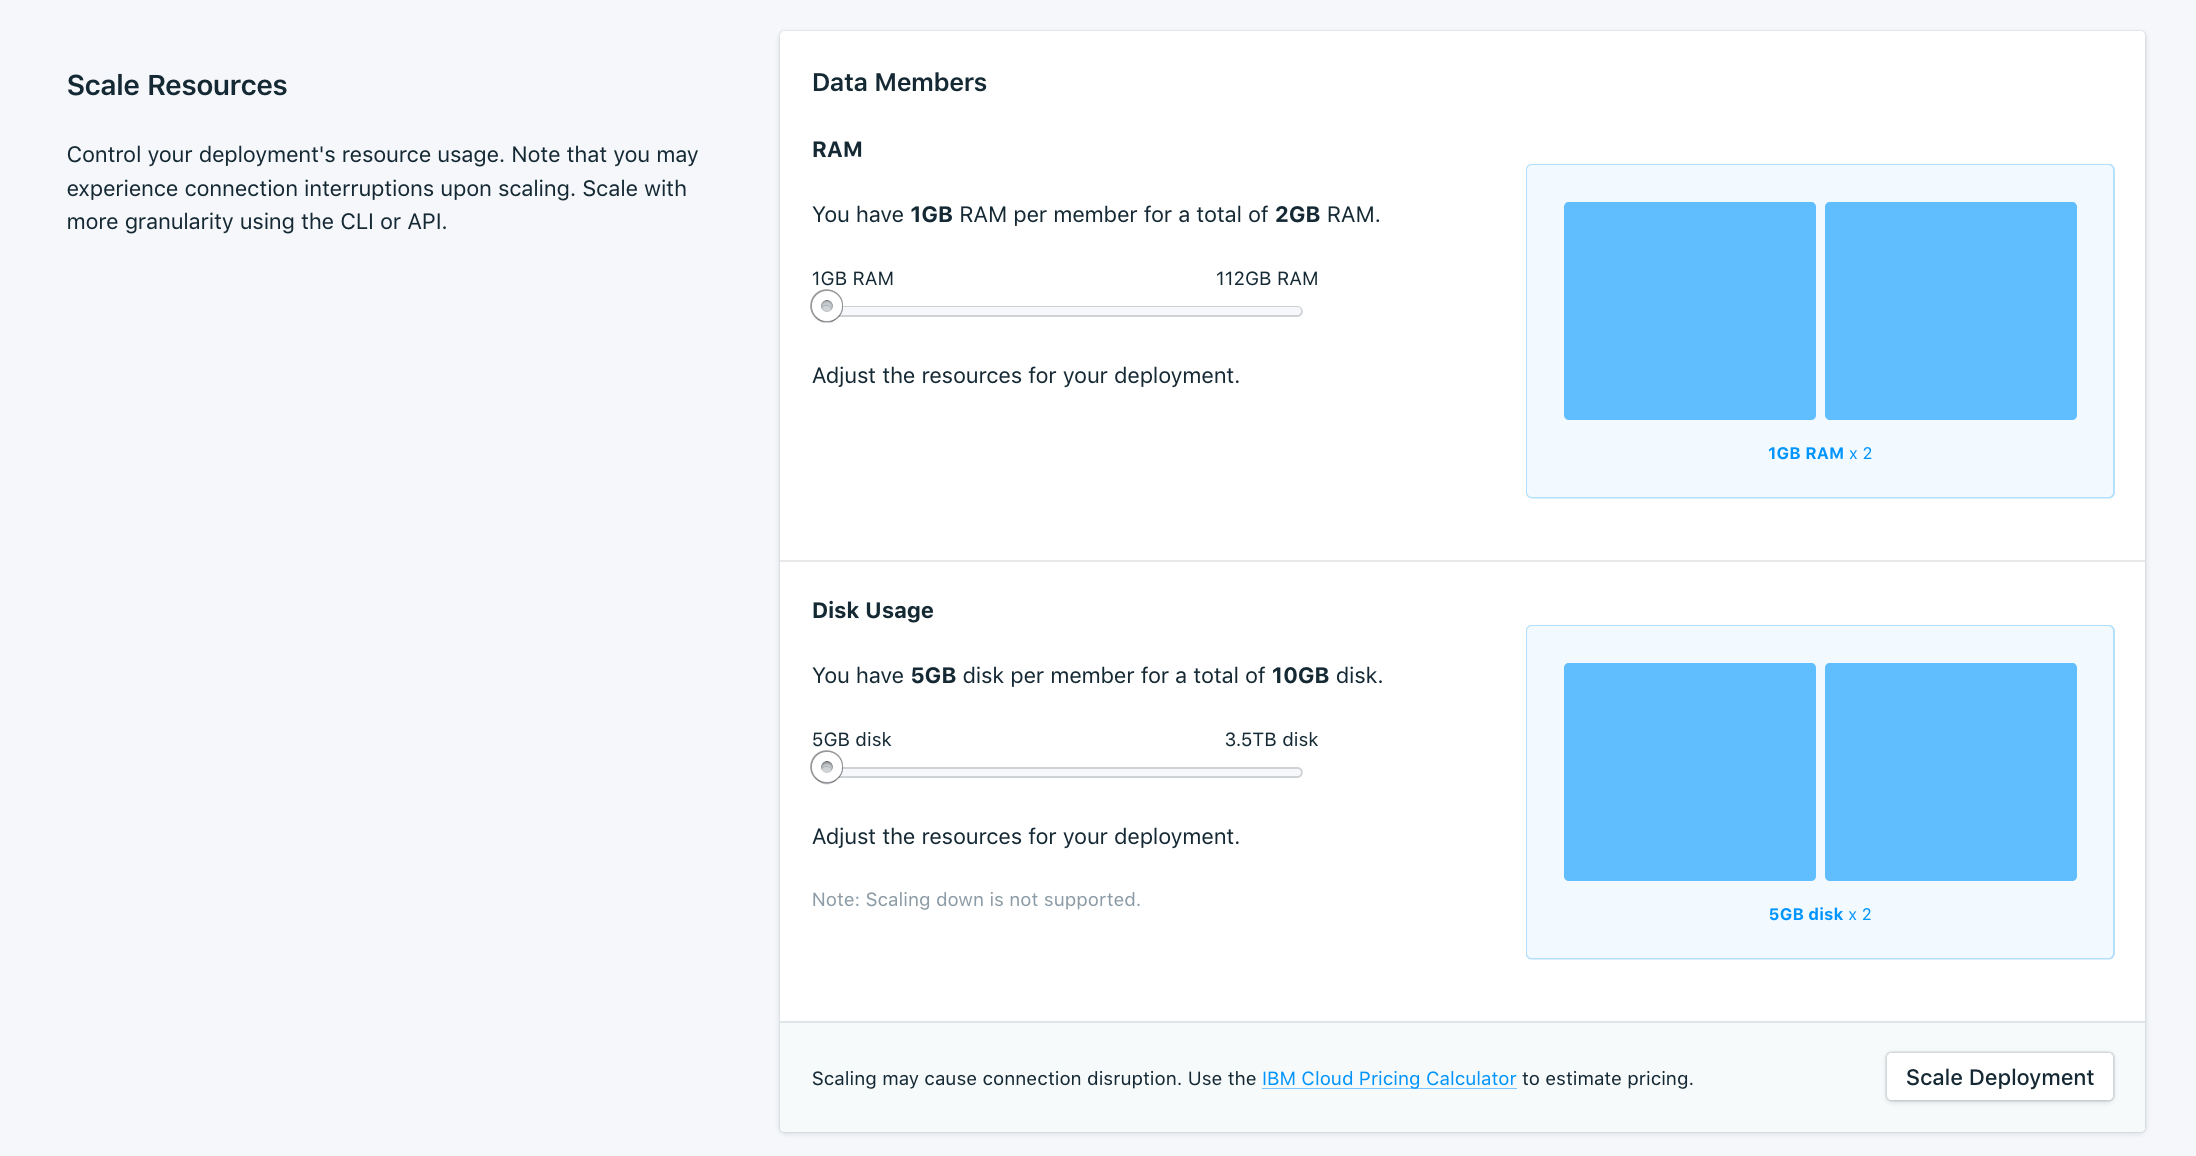
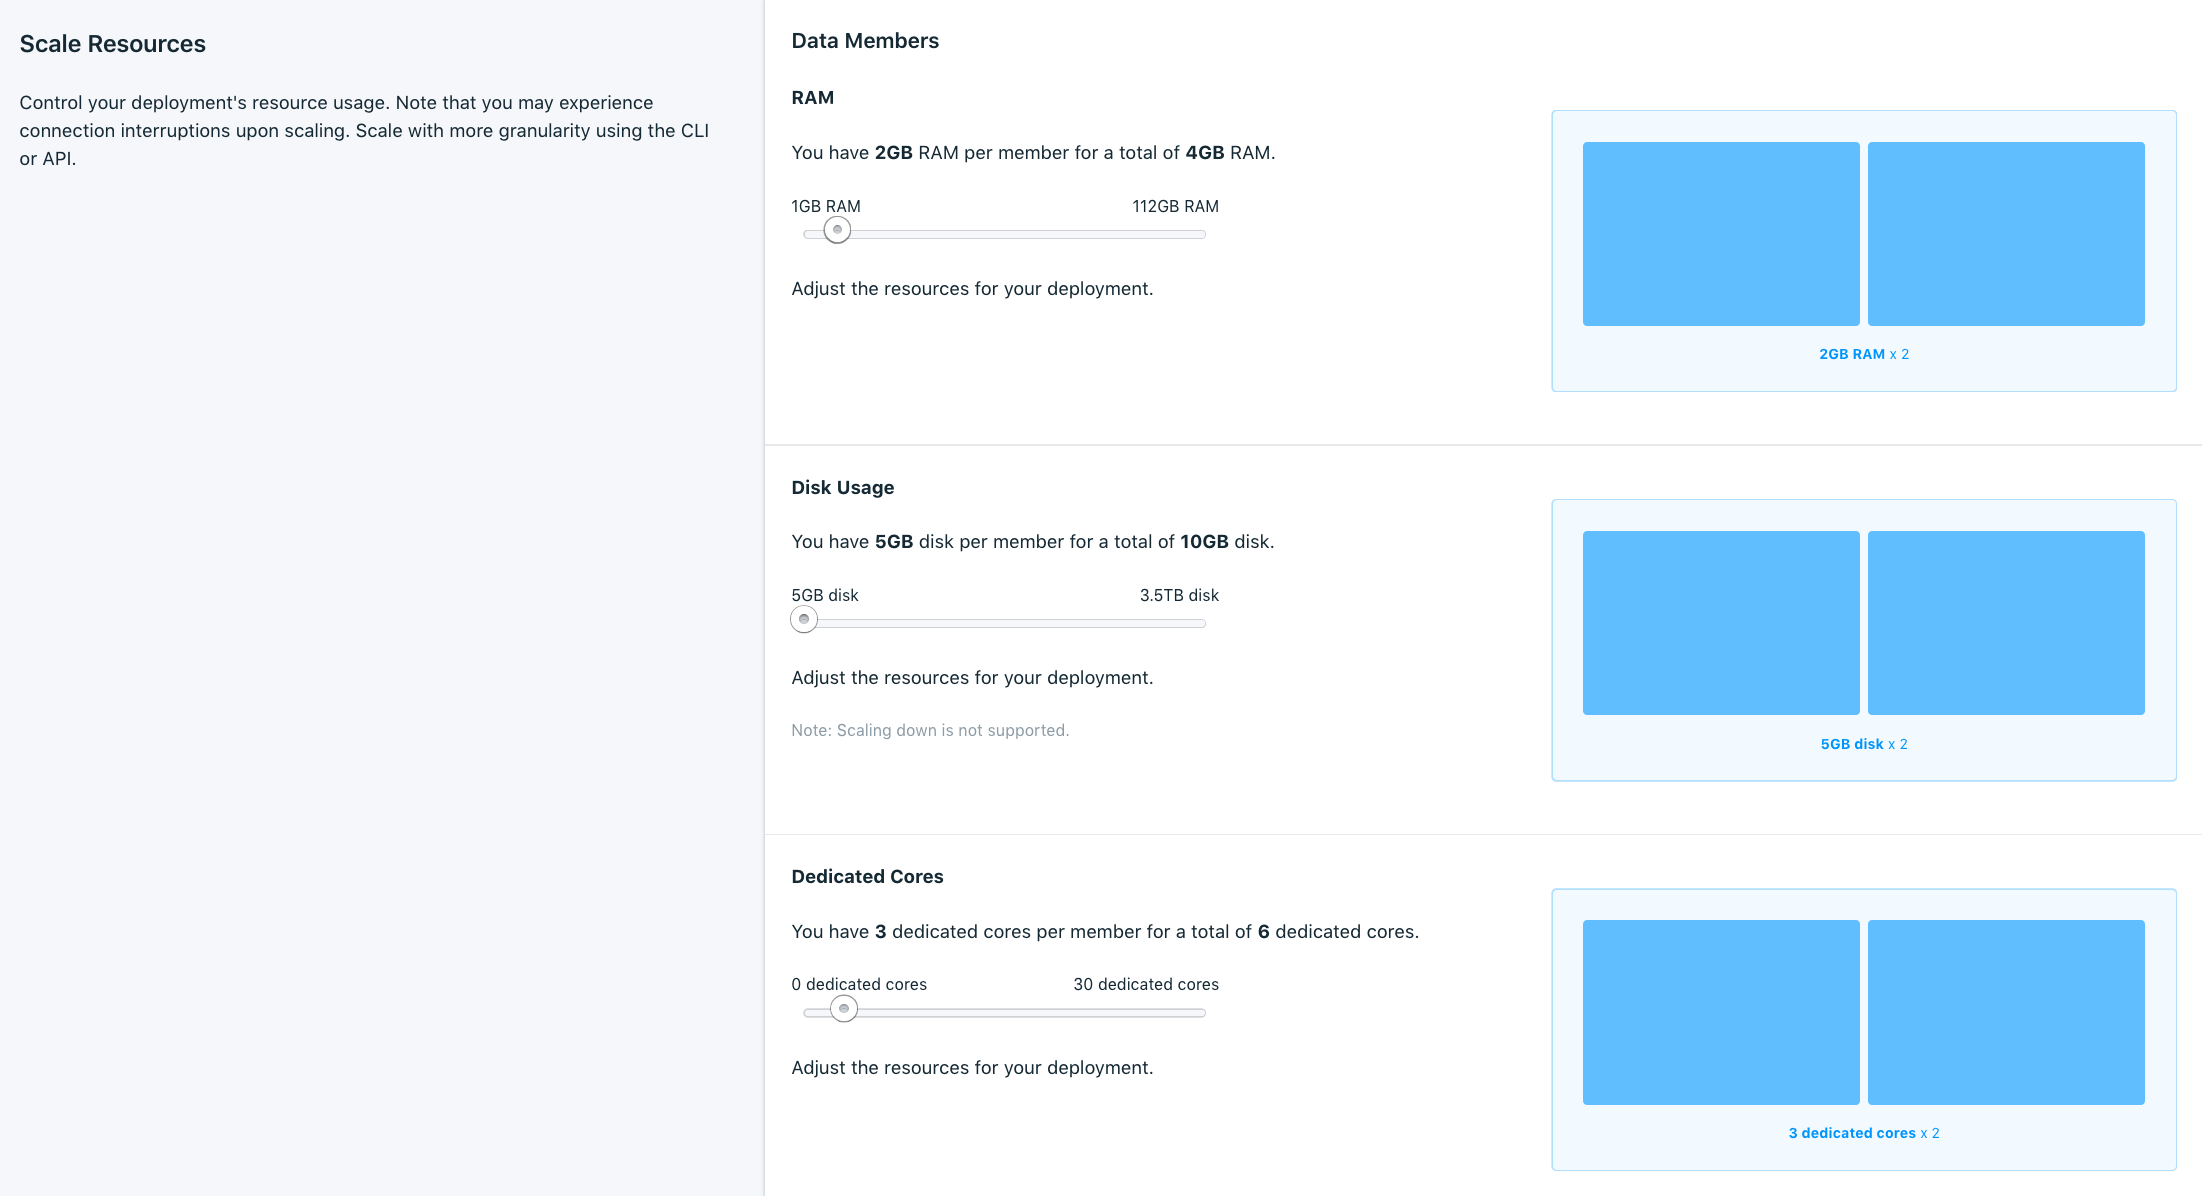
CPU Enabling/Scaling for all deployments (#59)
* initial wording for making dedicated cores more widely available

* updating scaling screenshot

* adding cli output for CPU in scaling

diff --git a/howto-resources-scaling.md b/howto-resources-scaling.md
@@ -2,7 +2,7 @@
 
 Copyright:
   years: 2019
-lastupdated: "2019-04-08"
+lastupdated: "2019-09-07"
 
 keywords: postgresql, databases, scaling
 
@@ -45,7 +45,10 @@ If you find that your deployment is suffering from performance issues due to a l
 The amount of memory allocated to the database's shared buffer pool is **not** adjusted automatically when you scale your deployment. Its recommended to be set to 25% of the deployment's total memory. You can manually tune the shared buffer pool through the [`shared_buffer`](https://www.postgresql.org/docs/current/runtime-config-resource.html#GUC-SHARED-BUFFERS) setting in your [PostgreSQL's configuration](/docs/services/databases-for-postgresql?topic=databases-for-postgresql-changing-configuration). It is not auto-tuned because changing the `shared_buffer` requires a database restart.
 
 **Dedicated Cores** - 
-If you provisioned your deployment with dedicated cores, you can increase the CPU allocation to the deployment. This option is not available on deployments that were not provisioned with an initial CPU allocation.
+You can enable or increase the CPU allocation to the deployment. With dedicated cores, your resource group is given a single-tenant host with a guaranteed minimum reserve of cpu shares. Your deployment is then allocated the number of CPUs you specify. The default of 0 dedicated cores uses compute resources on shared hosts.
+
+A few scaling operations can be more long running than others. Enabling dedicated cores moves your deployment to its own host and can take longer than just adding more cores. Similarly, drastically increasing RAM or Disk can take longer than smaller increases to account for provisioning more underlying hardware resources.
+{: .tip}
 
 ## Scaling via the UI
 
@@ -62,16 +65,22 @@ For example, the command to view the resource groups for a deployment named "exa
 `ibmcloud cdb deployment-groups example-deployment`
 
 This produces the output:
-
 ```
 Group   member
 Count   2
 |
 +   Memory
-|   Allocation              2048mb
-|   Allocation per member   1024mb
+|   Allocation              4096mb
+|   Allocation per member   2048mb
 |   Minimum                 2048mb
 |   Step Size               256mb
+|   Adjustable              true
+|
++   CPU
+|   Allocation              6
+|   Allocation per member   3
+|   Minimum                 6
+|   Step Size               2
 |   Adjustable              true
 |
 +   Disk
@@ -82,7 +91,7 @@ Count   2
 |   Adjustable              true
 ```
 
-The deployment has two members, with 2048 MB of RAM and 10240 MB of disk allocated in total. The "per member" allocation is 1024 MB of RAM and 5120 MB of disk. The minimum value is the lowest the total allocation can be set. The step size is the smallest amount by which the total allocation can be adjusted.
+The deployment has two members, with 4096 MB of RAM and 10240 MB of disk allocated in total. The "per member" allocation is 2048 MB of RAM and 5120 MB of disk. The minimum value is the lowest the total allocation can be set. The step size is the smallest amount by which the total allocation can be adjusted.
 
 The `cdb deployment-groups-set` command allows either the total RAM or total disk allocation to be set, in MB. For example, to scale the memory of the "example-deployment" to 2048 MB of RAM for each memory member (for a total memory of 4096 MB), you use the command:  
 `ibmcloud cdb deployment-groups-set example-deployment member --memory 4096`

diff --git a/pricing.md b/pricing.md
@@ -1,7 +1,7 @@
 ---
 copyright:
-  years: 2017,2018
-lastupdated: "2018-12-07"
+  years: 2017,2019
+lastupdated: "2019-09-07"
 
 keywords: postgresql, databases, pricing
 
@@ -51,7 +51,8 @@ For pricing estimation, use the **Add to Estimate** button on the [{{site.data.k
 Users also receive their total disk space purchased, per database, in free backup storage. For example, in a given month, if you have a {{site.data.keyword.databases-for-postgresql}} deployment that has 5 GB of disk per member, and has two data members, you receive 10 GB of backup storage free for that month. If your backup storage utilization is greater than 10 GB for the month in this scenario, each gigabyte is charged at an overage $0.03/month. Most deployments will not ever go over the allotted credit.
 
 ## Dedicated Cores Pricing
-When you provision, you have the option of selecting the initial CPU allocation for your deployment. With dedicated cores, your resource group is given a single-tenant host with a guaranteed minimum reserve of cpu shares. Your deployments are then allocated the number of CPUs you specify. The cost of dedicated cores is $30 per core per month, and each member gets the selected number of cores. For example, if you provision a deployment with 3 dedicated cores per member, that is a total of 6 cores, and billed at $180 per month. 
+
+You have the option of selecting the CPU allocation for your deployment. With dedicated cores, your resource group is given a single-tenant host with a guaranteed minimum reserve of cpu shares. Your deployments are then allocated the number of CPUs you specify. The cost of dedicated cores is $30 per core per month, and each member gets the selected number of cores. For example, if you provision a deployment with 3 dedicated cores per member, that is a total of 6 cores, and billed at $180 per month. 
 
 Dedicated cores are an optional feature. The default `Shared CPU` setting provisions your deployment on hosts with shared compute resources and incurs no additional charge.
 
